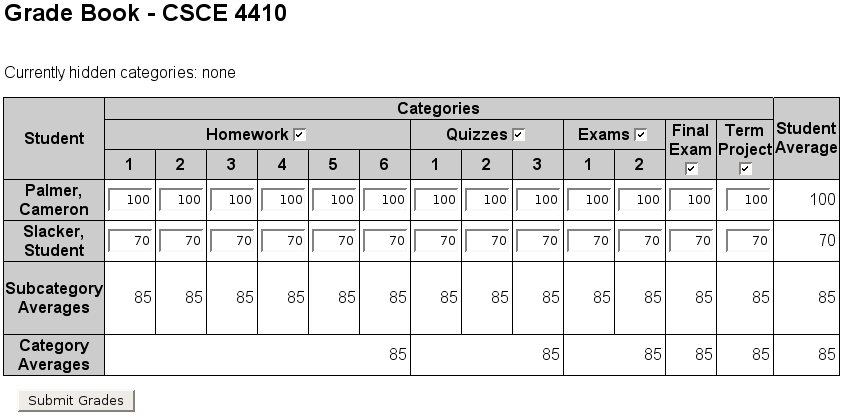
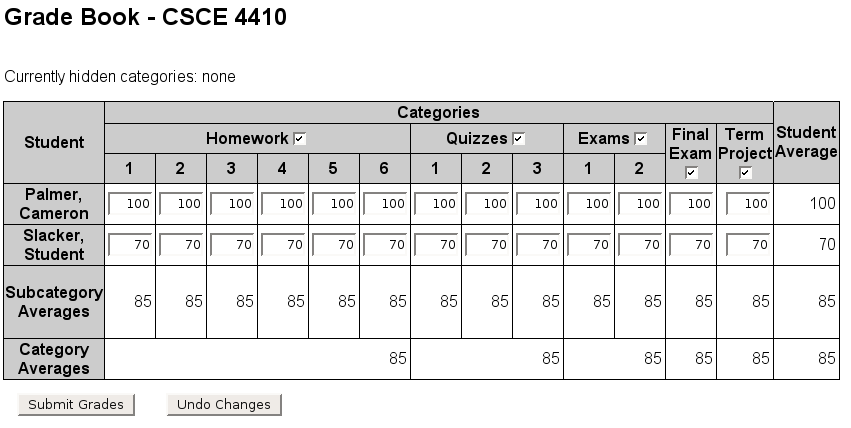
image of the gradebook

diff --git a/classes/csce4410/Project/gradebook.html b/classes/csce4410/Project/gradebook.html
@@ -28,7 +28,7 @@
       float: left;
       clear: left;
    }
-   #submit {
+   #submit,#reset {
       margin: 1em;
    }
    #fields {
@@ -164,6 +164,7 @@
            </tr>
          </table>
          <input type="submit" id="submit" value="Submit Grades" />
+         <input type="button" id="reset" value="Undo Changes" />
          </form>
       </div>
       </div>
